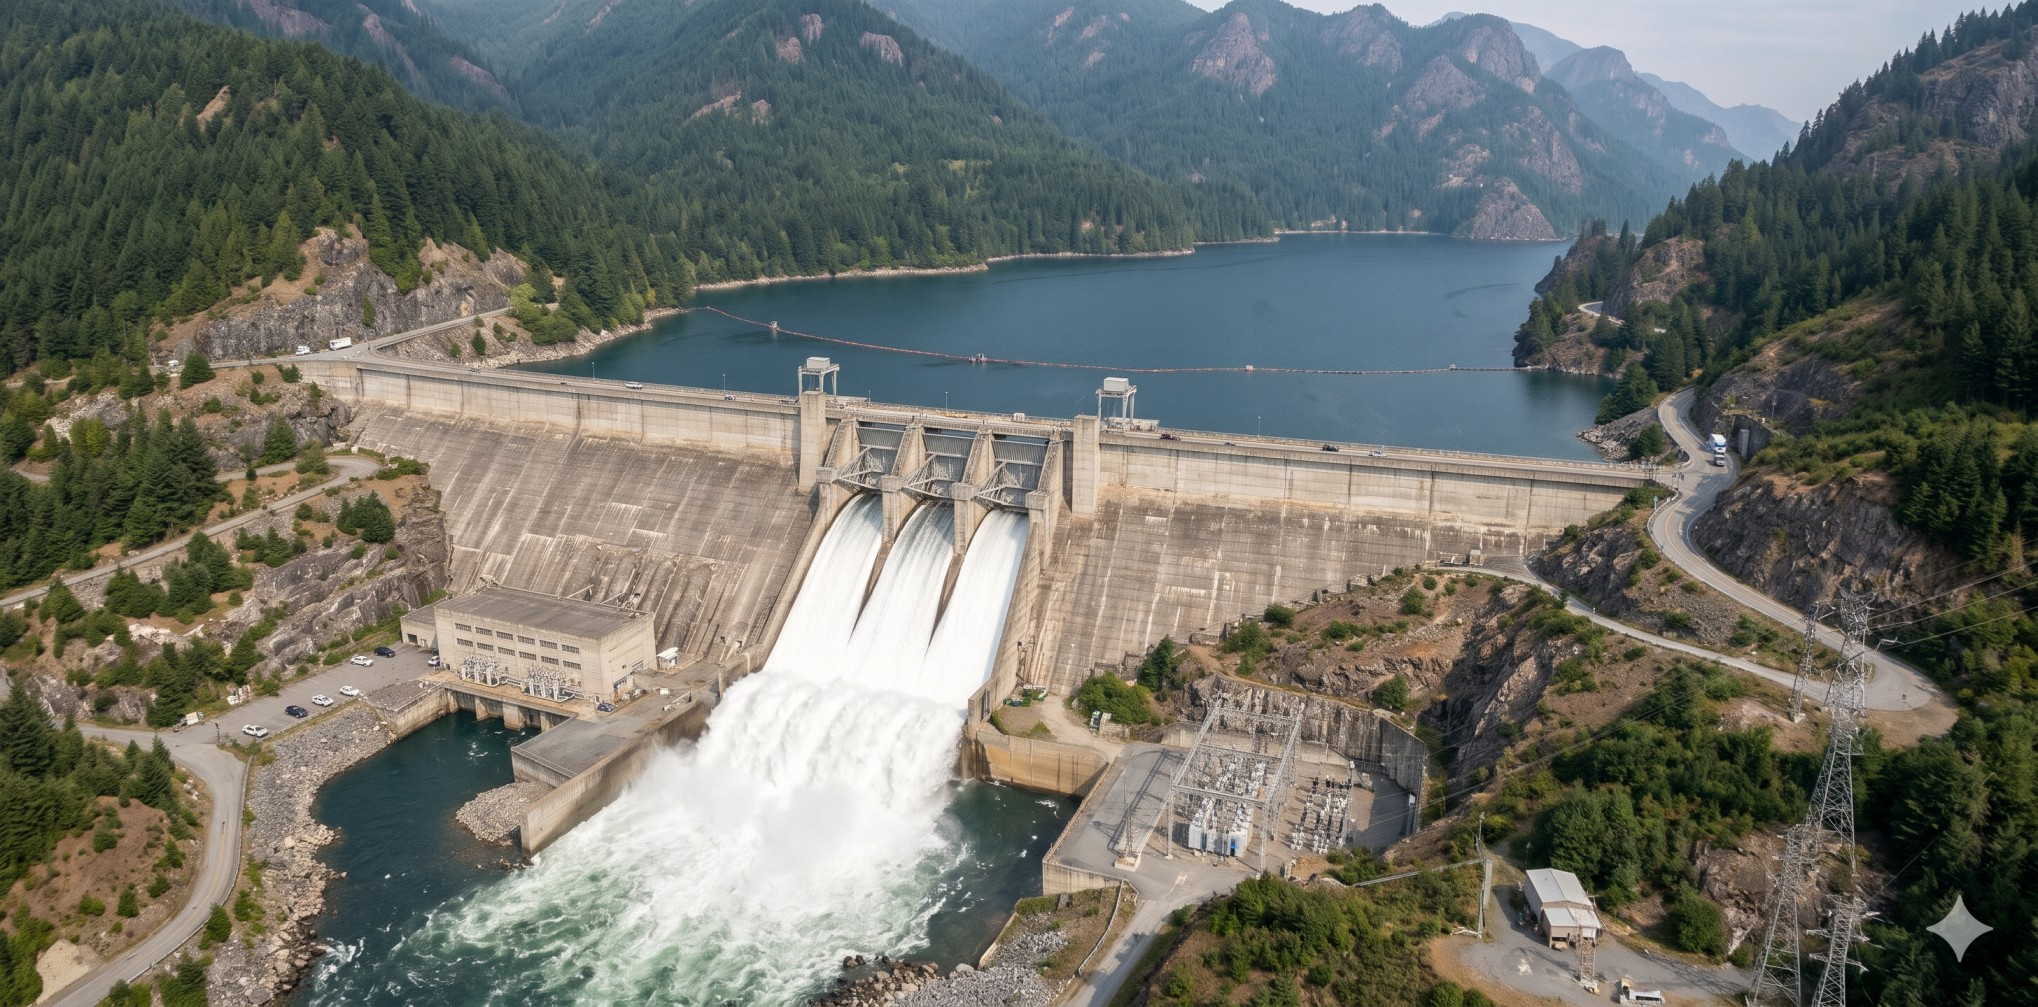
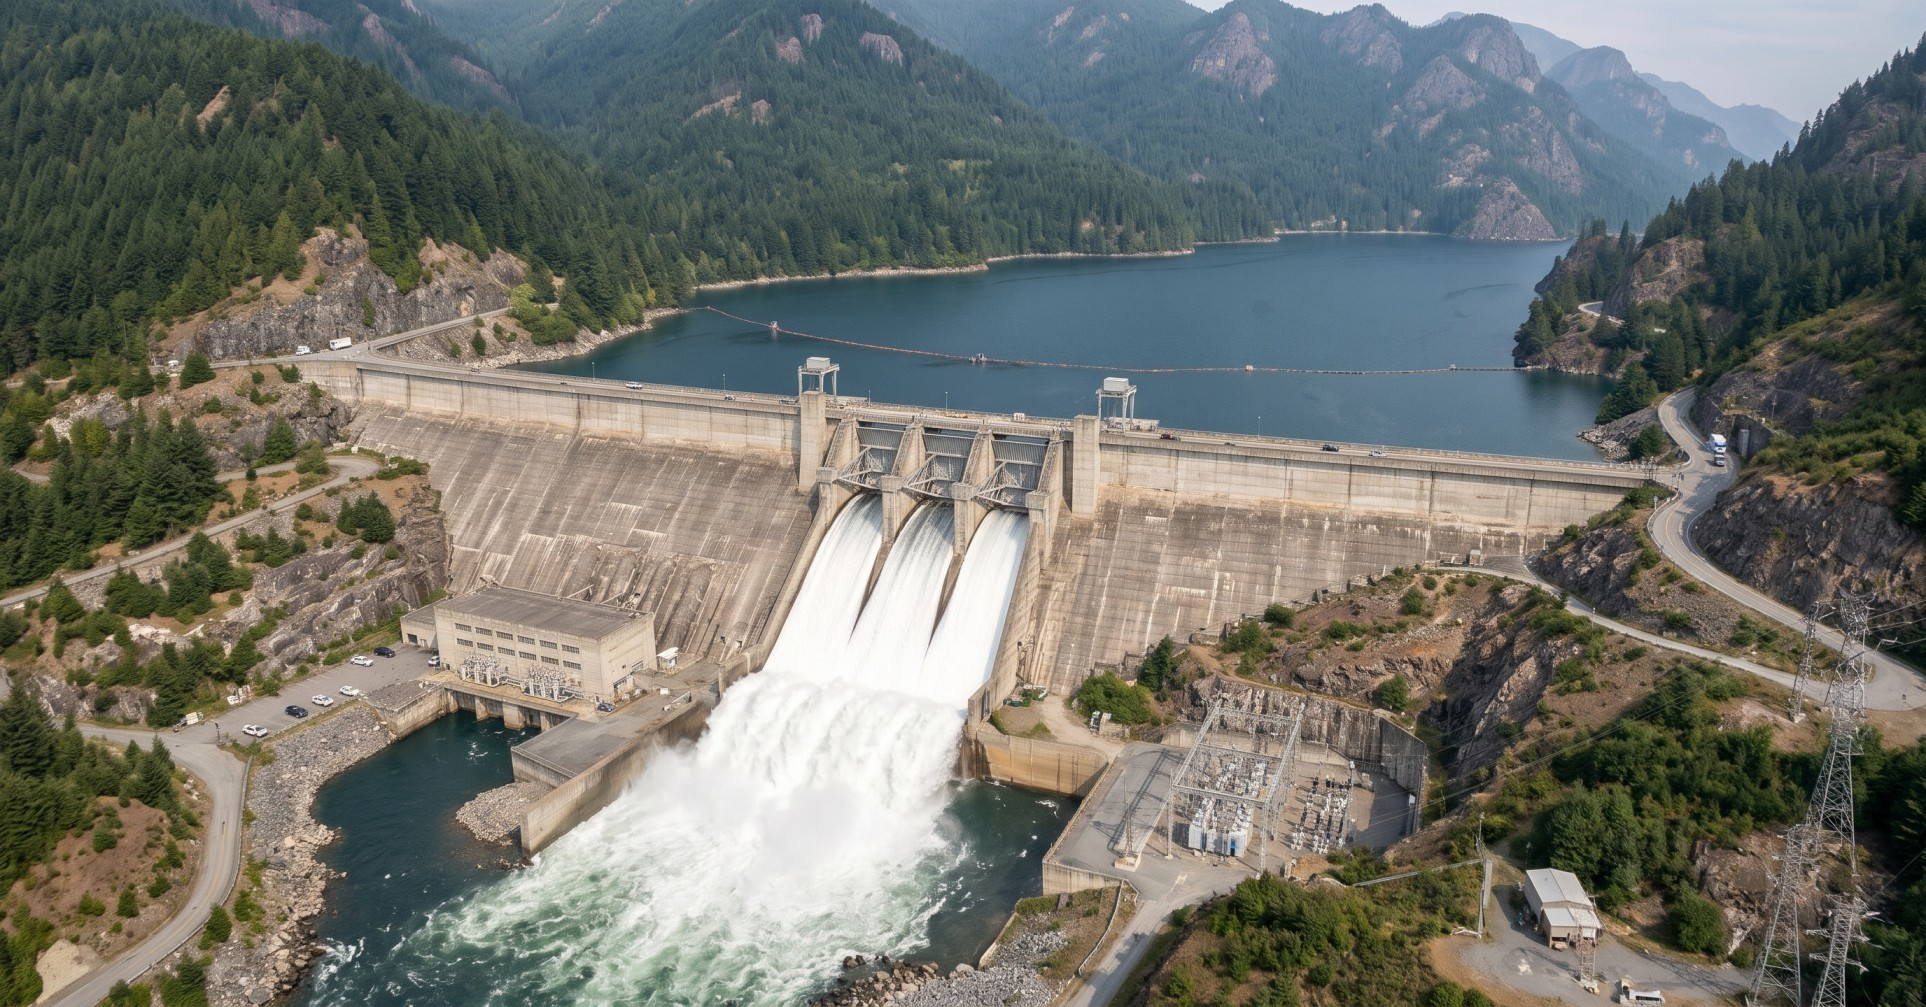
refactor: Enhance TrustedBySection with improved marquee animation; implement seamless scrolling and responsive design adjustments

diff --git a/src/components/TrustedBySection.jsx b/src/components/TrustedBySection.jsx
@@ -1,3 +1,5 @@
+import { useEffect, useRef } from "react";
+
 export default function TrustedBySection() {
   const partnerImages = import.meta.glob(
     "/src/assets/logos/*.{png,jpg,jpeg,webp,gif,svg}",
@@ -15,34 +17,98 @@ export default function TrustedBySection() {
         .pop()
         ?.replace(/\.[^/.]+$/, "")
         .replace(/[-_]/g, " ") || "Partner",
-    image: image,
+    image,
   }));
 
-  // Duplicate the logos to create a seamless infinite marquee
-  const marqueePartners = [...partners, ...partners, ...partners];
+  const trackRef = useRef(null);
+  const firstSetRef = useRef(null);
+  const isPausedRef = useRef(false);
+
+  // =========================================================
+  // SHARP PIXEL-ROUNDED MARQUEE ANIMATION
+  // =========================================================
+  useEffect(() => {
+    const track = trackRef.current;
+    const firstSet = firstSetRef.current;
+
+    if (!track || !firstSet) return;
+
+    let offset = 0;
+    let setWidth = 0;
+    let previousTime = 0;
+    let animationFrame;
+
+    const speed = 150; // pixels per second
+
+    const updateWidth = () => {
+      setWidth = firstSet.offsetWidth;
+    };
+
+    updateWidth();
+
+    const resizeObserver = new ResizeObserver(updateWidth);
+    resizeObserver.observe(firstSet);
+
+    const animate = (time) => {
+      if (!previousTime) previousTime = time;
+
+      const delta = Math.min((time - previousTime) / 1000, 0.05);
+      previousTime = time;
+
+      if (!isPausedRef.current && setWidth > 0) {
+        offset += speed * delta;
+
+        // Seamless loop
+        if (offset >= setWidth) {
+          offset %= setWidth;
+        }
+
+        // Round movement to whole pixels
+        const roundedOffset = Math.round(offset);
+
+        track.style.transform = `translateX(-${roundedOffset}px)`;
+      }
+
+      animationFrame = requestAnimationFrame(animate);
+    };
+
+    animationFrame = requestAnimationFrame(animate);
+
+    return () => {
+      cancelAnimationFrame(animationFrame);
+      resizeObserver.disconnect();
+    };
+  }, []);
 
   return (
     <section className="relative w-full overflow-hidden border-y border-slate-200/60 bg-white py-16">
+
       {/* =========================================================
           SUBTLE BACKGROUND
       ========================================================== */}
       <div className="pointer-events-none absolute inset-0">
         <div className="absolute left-1/2 top-0 h-72 w-[700px] -translate-x-1/2 rounded-full bg-blue-500/[0.035] blur-3xl" />
+
         <div className="absolute bottom-0 left-0 h-64 w-64 rounded-full bg-cyan-500/[0.025] blur-3xl" />
+
         <div className="absolute right-0 top-1/3 h-64 w-64 rounded-full bg-indigo-500/[0.025] blur-3xl" />
       </div>
 
       <div className="relative z-10 mx-auto max-w-8xl px-5 sm:px-8">
+
         {/* =========================================================
             HEADER
         ========================================================== */}
         <div className="mb-12 text-center">
+
           {/* Badge */}
           <div className="mb-4 inline-flex items-center gap-2 rounded-full border border-blue-200/40 bg-blue-50/70 px-4 py-2 text-xs font-semibold uppercase tracking-wider text-blue-700">
             <span className="relative flex h-2 w-2">
               <span className="absolute inline-flex h-full w-full animate-ping rounded-full bg-blue-600 opacity-60" />
+
               <span className="relative inline-flex h-2 w-2 rounded-full bg-blue-600" />
             </span>
+
             Our Partners
           </div>
 
@@ -59,107 +125,149 @@ export default function TrustedBySection() {
             LOGO SHOWCASE
         ========================================================== */}
         <div className="relative">
-          {/* Subtle top/bottom lines */}
+
+          {/* Top border */}
           <div className="absolute left-0 right-0 top-0 h-px bg-gradient-to-r from-transparent via-slate-200 to-transparent" />
+
+          {/* Bottom border */}
           <div className="absolute bottom-0 left-0 right-0 h-px bg-gradient-to-r from-transparent via-slate-200 to-transparent" />
 
-          {/* Logo Marquee */}
-          <div className="overflow-hidden py-5">
-            {/* No `gap` here: spacing is margin on each item so that
-                one set is exactly 1/3 of the total width (seamless loop) */}
-            <div className="flex w-max items-center animate-marquee">
-              {marqueePartners.map((partner, index) => (
-                <div
-                  key={`${partner.name}-${index}`}
-                  className="
-                    group
-                    relative
-                    mr-6
-                    flex
-                    h-28
-                    w-52
-                    shrink-0
-                    items-center
-                    justify-center
-                    rounded-2xl
-                    border
-                    border-slate-200/80
-                    bg-white
-                    px-6
-                    py-5
-                    shadow-[0_2px_12px_rgba(15,23,42,0.04)]
-                    transition-[border-color,box-shadow]
-                    duration-300
-                    hover:border-blue-200
-                    hover:shadow-[0_8px_25px_rgba(37,99,235,0.10)]
-                    sm:mr-8
-                    sm:h-32
-                    sm:w-56
-                    md:mr-10
-                  "
-                >
-                  {/* Very subtle hover glow */}
-                  <div
-                    className="
-                      pointer-events-none
-                      absolute
-                      inset-0
-                      rounded-2xl
-                      bg-blue-500/[0.02]
-                      opacity-0
-                      transition-opacity
-                      duration-300
-                      group-hover:opacity-100
-                    "
-                  />
+          {/* =========================================================
+              LOGO MARQUEE
+          ========================================================== */}
+          <div
+            className="overflow-hidden py-5"
+            onMouseEnter={() => {
+              isPausedRef.current = true;
+            }}
+            onMouseLeave={() => {
+              isPausedRef.current = false;
+            }}
+          >
+            <div
+              ref={trackRef}
+              className="flex w-max items-center"
+              style={{
+                transform: "translateX(0px)",
+                willChange: "transform",
+              }}
+            >
 
-                  <img
-                    src={partner.image}
-                    alt={partner.name}
-                    className="relative z-10 max-h-20 max-w-full object-contain"
-                    loading="lazy"
-                    draggable={false}
-                  />
-                </div>
-              ))}
+              {/* =====================================================
+                  FIRST SET OF LOGOS
+              ====================================================== */}
+              <div
+                ref={firstSetRef}
+                className="flex w-max items-center"
+              >
+                {partners.map((partner, index) => (
+                  <div
+                    key={`${partner.name}-${index}`}
+                    className="
+                      group
+                      relative
+                      mr-6
+                      flex
+                      h-28
+                      w-52
+                      shrink-0
+                      items-center
+                      justify-center
+                      rounded-2xl
+                      border
+                      border-slate-200/80
+                      bg-white
+                      px-6
+                      py-5
+                      transition-[border-color,box-shadow]
+                      duration-300
+                      hover:border-blue-200
+                      hover:shadow-[0_8px_25px_rgba(37,99,235,0.10)]
+                      sm:mr-8
+                      sm:h-32
+                      sm:w-56
+                      md:mr-10
+                    "
+                  >
+                    {/* Hover glow */}
+                    <div
+                      className="
+                        pointer-events-none
+                        absolute
+                        inset-0
+                        rounded-2xl
+                        bg-blue-500/[0.02]
+                        opacity-0
+                        transition-opacity
+                        duration-300
+                        group-hover:opacity-100
+                      "
+                    />
+
+                    {/* Logo */}
+                    <img
+                      src={partner.image}
+                      alt={partner.name}
+                      className="relative z-10 max-h-[120px] max-w-full object-contain"
+                      loading="eager"
+                      decoding="sync"
+                      draggable={false}
+                    />
+                  </div>
+                ))}
+              </div>
+
+              {/* =====================================================
+                  DUPLICATE SET FOR INFINITE LOOP
+              ====================================================== */}
+              <div
+                className="flex w-max items-center"
+                aria-hidden="true"
+              >
+                {partners.map((partner, index) => (
+                  <div
+                    key={`${partner.name}-duplicate-${index}`}
+                    className="
+                      group
+                      relative
+                      mr-6
+                      flex
+                      h-28
+                      w-52
+                      shrink-0
+                      items-center
+                      justify-center
+                      rounded-2xl
+                      border
+                      border-slate-200/80
+                      bg-white
+                      px-6
+                      py-5
+                      transition-[border-color,box-shadow]
+                      duration-300
+                      sm:mr-8
+                      sm:h-32
+                      sm:w-56
+                      md:mr-10
+                    "
+                  >
+                    <img
+                      src={partner.image}
+                      alt=""
+                      className="relative z-10 max-h-[120px] max-w-full object-contain"
+                      loading="eager"
+                      decoding="sync"
+                      draggable={false}
+                    />
+                  </div>
+                ))}
+              </div>
+
             </div>
           </div>
         </div>
       </div>
 
-      {/* =========================================================
-          MARQUEE ANIMATION
-      ========================================================== */}
-      <style>{`
-        @keyframes marquee {
-          0% {
-            transform: translate3d(0, 0, 0);
-          }
-          100% {
-            transform: translate3d(-33.3333%, 0, 0);
-          }
-        }
-
-       .animate-marquee {
-  animation: marquee 90s linear infinite;
-  will-change: transform;
-}
-
-        .animate-marquee:hover {
-          animation-play-state: paused;
-        }
-
-        .animate-marquee img {
-          image-rendering: -webkit-optimize-contrast;
-          backface-visibility: hidden;
-        }
-
-        @media (prefers-reduced-motion: reduce) {
-          .animate-marquee {
-            animation: none;
-          }
-        }
-      `}</style>
     </section>
   );
 }
